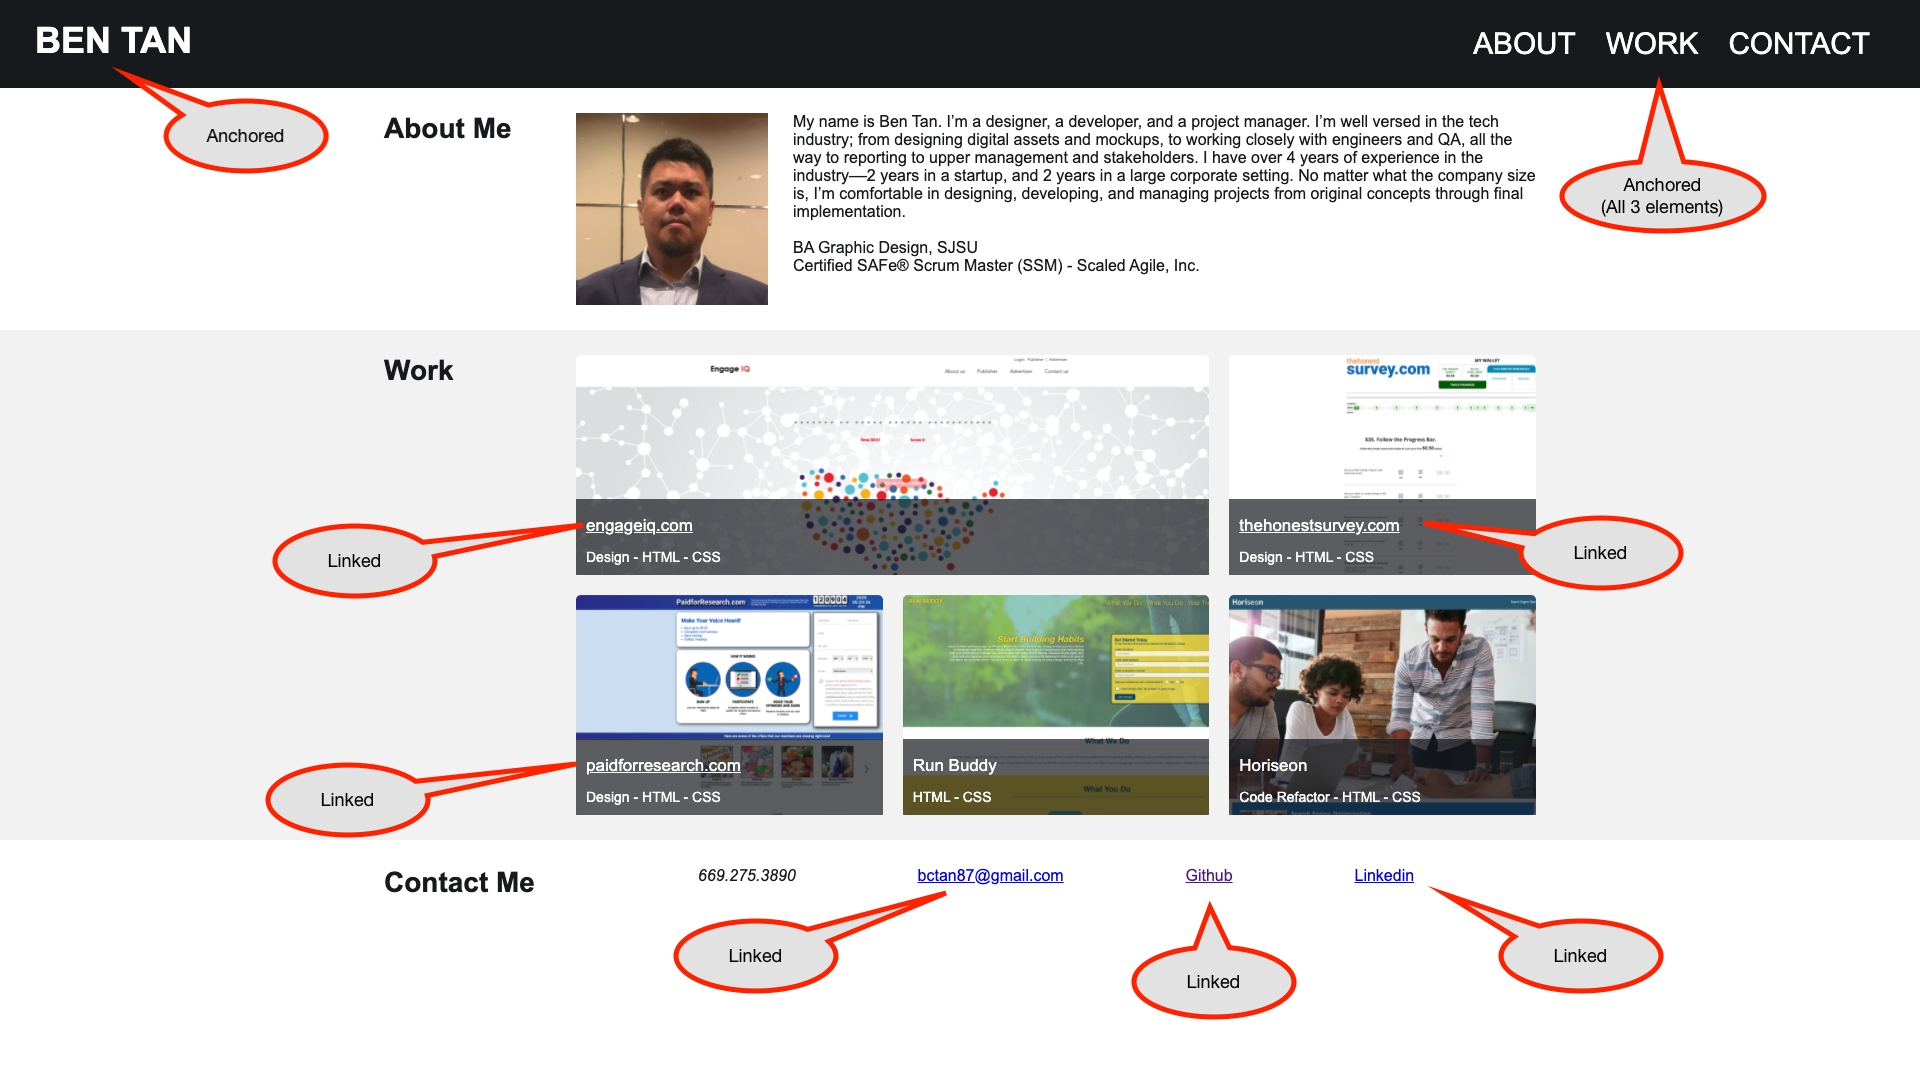
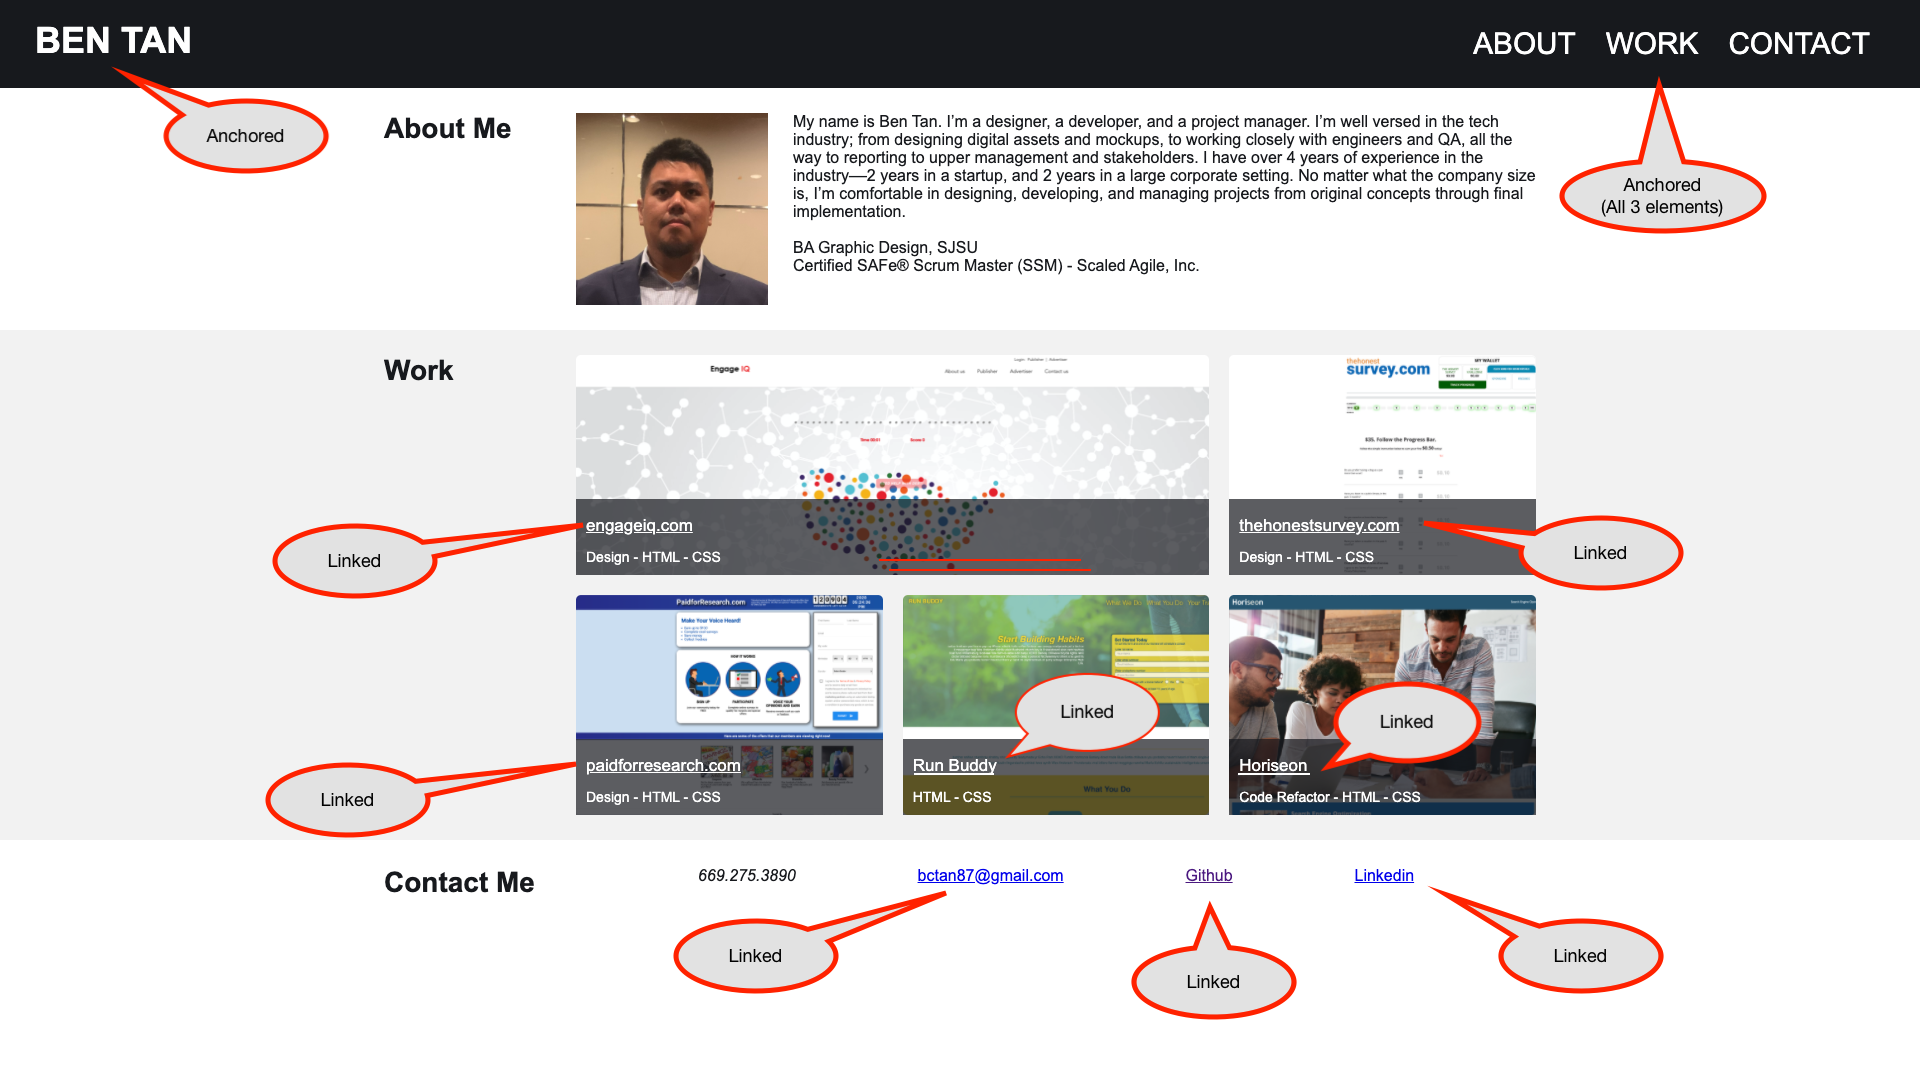
finishing touches

Changed region(s): [[0.6875, 0.6111, 0.7812, 0.7333], [0.5312, 0.6111, 0.625, 0.7028]]

diff --git a/index.html b/index.html
@@ -42,8 +42,8 @@
             <div class="about-img">
                 <img src="./assets/images/photo.jpg">
                 <p>
-                    My name is Ben Tan. I’m a designer, a developer, and a project manager. I’m well versed in the tech industry; from designing digital assets and mockups, to working closely with engineers and QA, all the way to reporting to upper management and stakeholders. 
-                    I have over 4 years of experience in the industry––2 years in a startup, and 2 years in a large corporate setting. No matter what the company size is, I’m comfortable in designing, developing, and managing projects from original concepts through final implementation.
+                    My name is Ben Tan. I’m a designer, a developer, and a project manager. I’m well versed in the tech-related production; from designing digital assets and mockups, to working closely with engineers and QA, all the way to reporting to upper management and stakeholders. 
+                    I have over 4 years of experience in the industry, ranging from startup to mid/large corporate setting. No matter what project magnitude or product scale, I’m comfortable in designing, developing, and managing projects from original concepts through final implementation.
                     <br />
                     <br />
                     BA Graphic Design, SJSU <br />

diff --git a/README.md b/README.md
@@ -20,7 +20,7 @@ Please refer to the screencaps:
 
 ![Full screen](/assets/images/screencap2.png)
 
-3 of 5 works are linked
+5 of 5 works are linked
 
 ### @media screen 980px
 
